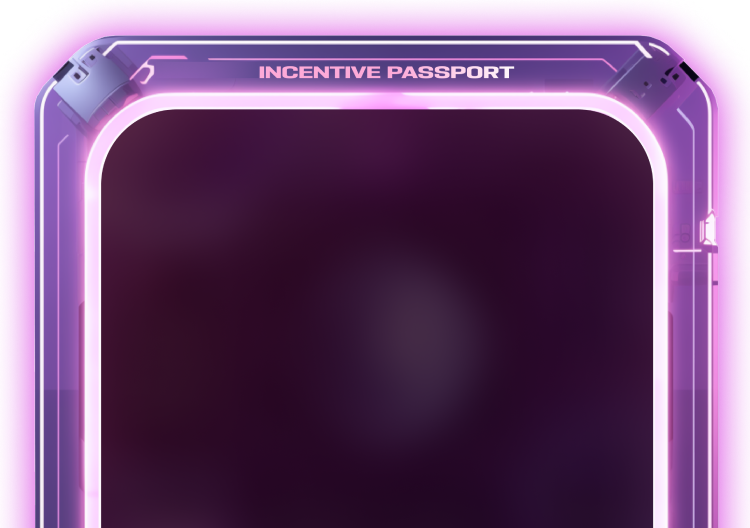
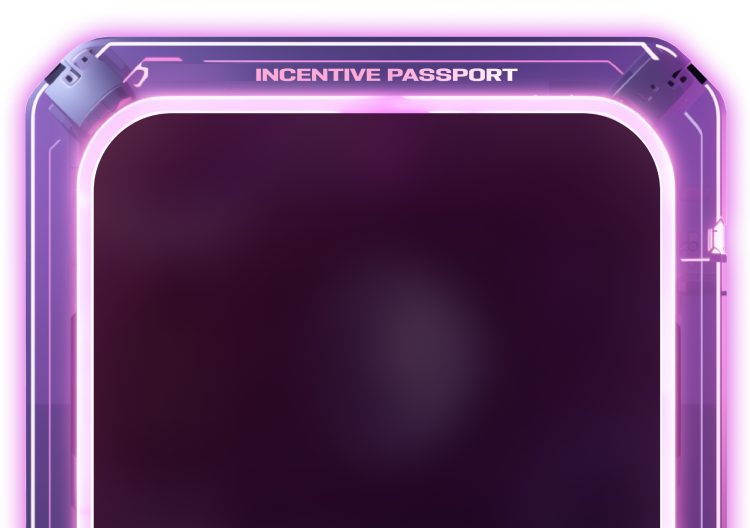
fix

Changed region(s): [[0.0307, 0.0303, 0.9813, 1.0]]

diff --git a/app/campaign/src/components/connectWallet/index.jsx b/app/campaign/src/components/connectWallet/index.jsx
@@ -211,7 +211,7 @@ const ConnectWalletModal = () => {
 
         <div className="flex-1 flex flex-col justify-center">
           <div
-            className="w-[375px] h-[267px] mx-auto lg:w-full lg:h-[460px] flex flex-col justify-center items-center bg-cover"
+            className="w-[375px] h-[264px] mx-auto lg:w-full lg:h-[460px] flex flex-col justify-center items-center bg-cover"
             style={{
               backgroundImage: `url(${
                 !pc && userLogined ? passportUnlogin : passportlg

diff --git a/app/campaign/src/css/style.css b/app/campaign/src/css/style.css
@@ -57,7 +57,7 @@
     ),
     linear-gradient(11deg, #c4b1d8 15.48%, #f4d597 100%);
 }
-
+.ant-modal-content,
 .ant-drawer-content {
   @apply !bg-linear2;
 }
